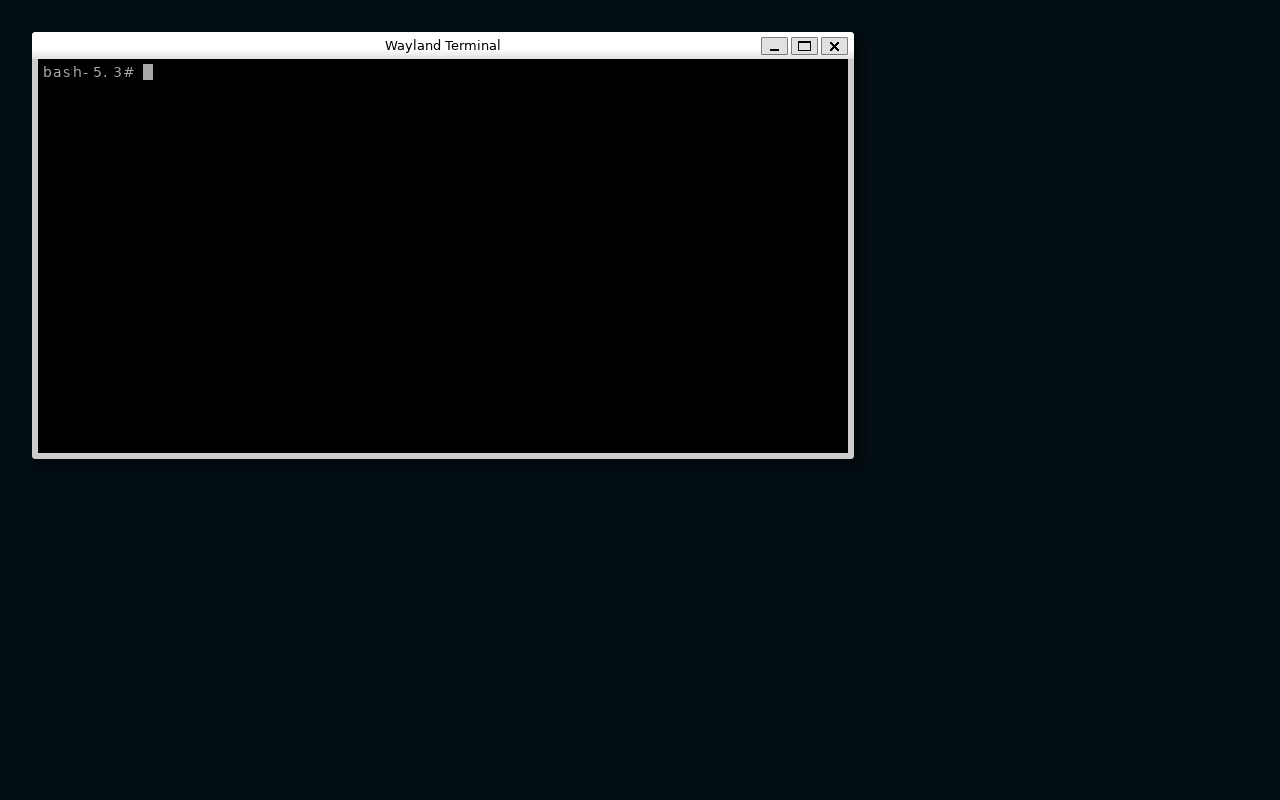
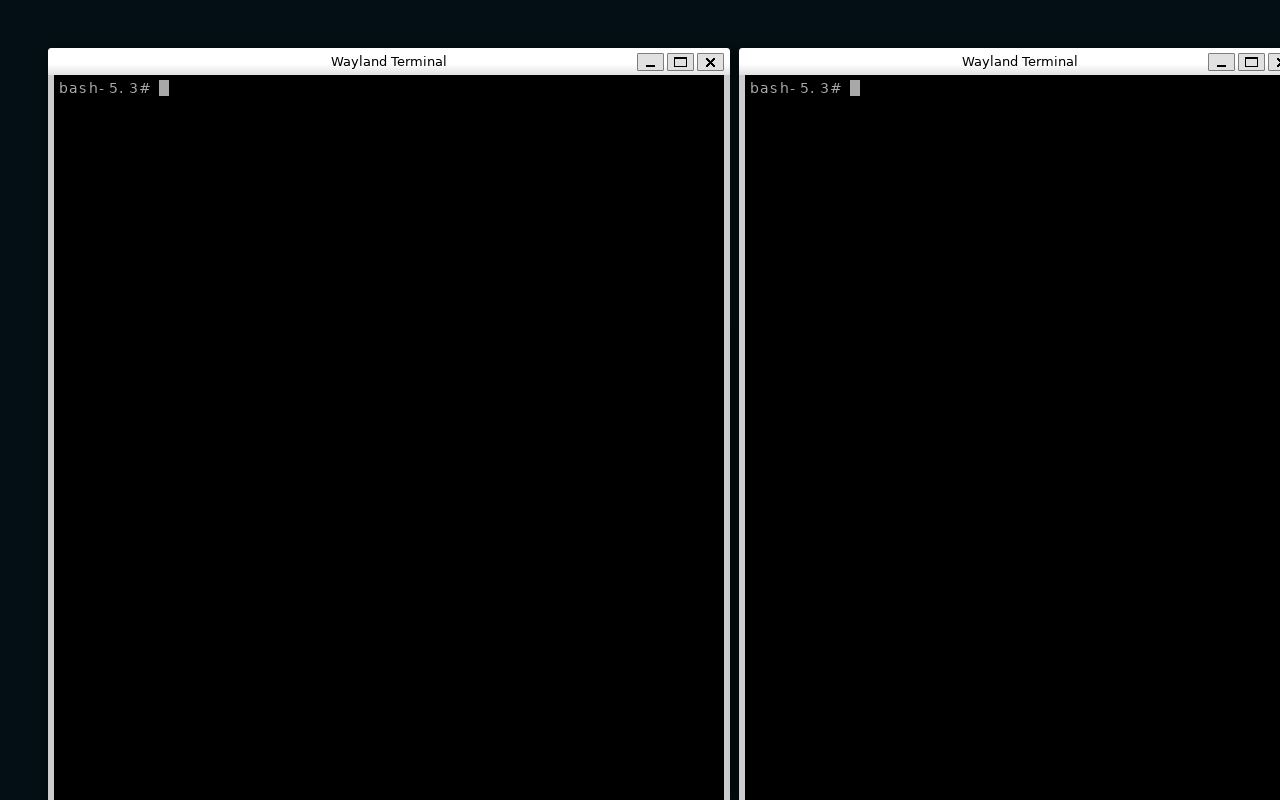
docs(smithay): tiled client integration and remaining gaps
Updates the backend page with the two-client tiled screenshot, what now
works (shell tiling/configure, keyboard/pointer focus) and what remains
(workspace UI, overlay above clients, interactive resize, udev/DRM).

Changed region(s): [[0.0, 0.0312, 1.0, 1.0]]

diff --git a/apps/web/src/sections/Roadmap.tsx b/apps/web/src/sections/Roadmap.tsx
@@ -43,8 +43,8 @@ const PHASES: Array<{
     status: "progress",
     summary: "A Smithay shell that owns the scene graph, tiling and frame pacing.",
     bullets: [
-      "Winit/EGL adapter renders real xdg-shell clients (weston-terminal verified) and FramePlan demo; Linux-only crate.",
-      "Next: integrate clients with shell tiling/workspaces, pointer input and configure sizing, then udev/DRM.",
+      "Winit/EGL adapter maps xdg-shell clients into shell tiling (two terminals verified) and keeps a FramePlan demo; Linux-only crate.",
+      "Next: workspace switch/overlay above clients, interactive move/resize, cursor/axis, then udev/DRM.",
       "wgpu/Vulkan renderer, damage tracking, one draw pass for shell chrome.",
       "Frame scheduler from os/compositor wired to a real 120 Hz deadline.",
     ],

diff --git a/apps/docs/docs/architecture/smithay-backend.md b/apps/docs/docs/architecture/smithay-backend.md
@@ -20,10 +20,10 @@ aether-shell (policy) ──> FramePlan ──> aether-shell-smithay (Linux)
                                    └── aether-preview (software, any OS)
 ```
 
-![A Wayland terminal client rendered by the Smithay backend](/img/smithay-client.png)
+![Two Wayland terminal clients tiled by the shell](/img/smithay-client.png)
 
-*A real `weston-terminal` xdg-shell client with a shared-memory buffer, rendered
-by `aether-shell-smithay` under Xvfb.*
+*Two real `weston-terminal` xdg-shell clients with shared-memory buffers, tiled by
+`aether-shell` and rendered by `aether-shell-smithay` under Xvfb.*
 
 ![The `--demo` FramePlan view](/img/smithay-window.png)
 
@@ -35,11 +35,13 @@ by `aether-shell-smithay` under Xvfb.*
 - Opens a native window with Smithay's winit/EGL backend.
 - Accepts Wayland clients over a listening socket (`aether-0`): xdg-shell,
   shared-memory buffers, compositor and seat.
-- Renders client surfaces with Smithay surface elements; a real `weston-terminal`
-  is shown in the screenshot above.
-- Forwards keyboard input to the focused surface (focus follows a new toplevel and
-  pointer motion when nothing is focused).
-- Sends frame callbacks, handles client connect/disconnect and window close.
+- Maps each toplevel into `aether-shell` as a window, so clients are **tiled by
+  the shell layout** and configured to their tile size. Two terminals are shown
+  side-by-side in the screenshot.
+- Renders client surfaces with Smithay surface elements at their shell rects.
+- Pointer motion focuses the window under the cursor and forwards motion/buttons;
+  keyboard input goes to the focused surface.
+- Sends frame callbacks, handles client connect/disconnect/destroy and window close.
 - `--demo` mode presents the shell `FramePlan` as solid surfaces (z-order and
   overlay) for visual verification without clients.
 - Runs under Xvfb with Mesa software EGL for headless verification.
@@ -47,11 +49,12 @@ by `aether-shell-smithay` under Xvfb.*
 
 ## What is not implemented
 
-- **Shell policy for clients.** Clients are painted at `(0,0)`, not integrated
-  with `aether-shell` tiling/workspaces yet.
-- **Pointer input.** Motion focuses the first toplevel; pointer motion/buttons are
-  not forwarded, and there is no hit-testing or cursor theming.
-- **xdg configure/sizing.** Toplevels are activated but not sized by the shell.
+- **Workspaces have no UI/shortcuts yet.** Clients join the active workspace and
+  tile, but there is no keybinding/overlay to switch workspaces.
+- **No shell overlay in client mode.** The palette/chat overlay is only drawn in
+  `--demo`; integrating it above clients is next.
+- **Cursor theming and axis** are not handled; pointer motion/buttons are basic.
+- **Interactive move/resize, popups and drag-and-drop** are ignored.
 - **Popups, drag-and-drop and grabs** are accepted/ignored at the protocol level.
 - **udev/DRM backend.** The target path for the 7700K (no X server) is not written;
   winit is the development adapter.

diff --git a/CHANGELOG.md b/CHANGELOG.md
@@ -10,9 +10,11 @@ semantic versioning with release codenames (0.1 = “Kestrel”).
 
 - **First native backend** — `aether-shell-smithay` (Linux-only, standalone
   Cargo crate) opens a Smithay/winit window. It now accepts xdg-shell/shm
-  clients (verified with a real `weston-terminal`), forwards keyboard input to
-  the focused surface and keeps a `--demo` mode for the solid `FramePlan` view.
-  Shell tiling integration, pointer input, configure/sizing and udev/DRM remain.
+  clients (verified with two real `weston-terminal` instances), maps them into
+  `aether-shell` windows so they tile and are configured to their rects, and
+  forwards keyboard/pointer focus and buttons. A `--demo` mode keeps the solid
+  `FramePlan` view. Workspace UI, overlay above clients, interactive resize,
+  cursor theming and udev/DRM remain.
   Nix dev shell `.#smithay`, demo/client smoke scripts, ADR-0012.
 - **Backend-neutral shell state** — `aether-shell` owns windows, workspaces, focus,
   floating windows, the overlay and `FramePlan`, with no Wayland/GPU dependency.

diff --git a/apps/docs/docs/roadmap/roadmap.md b/apps/docs/docs/roadmap/roadmap.md
@@ -77,9 +77,10 @@ Deliverables:
 
 - ✅ winit/EGL adapter presents `FramePlan` (solid surfaces) under Xvfb; standalone
   Linux crate so the core stays toolkit-free.
-- ✅ xdg-shell/shm clients render; keyboard focus/forwarding; `weston-terminal`
-  verified under Xvfb.
-- ⏳ Integrate clients with shell tiling/workspaces, pointer input, configure/sizing.
+- ✅ xdg-shell/shm clients map into shell windows, tile and are configured to
+  their rects; keyboard/pointer focus and basic buttons; two terminals verified.
+- ⏳ Workspace switching UI/shortcuts, shell overlay above clients, interactive
+  move/resize, cursor theme and axis.
 - ⏳ udev/DRM backend, libinput seat, wgpu renderer, output hotplug.
 - Scene graph with damage tracking; shell chrome in one draw pass.
 - Tiling layout, focus, keybindings; one workspace per output.

diff --git a/README.md b/README.md
@@ -46,7 +46,7 @@ the next phase; first boot lands in a console, not the finished desktop.
 | aarch64 development VM target | ✅ built + booted headless in ~10–12 s (HVF) | `os/vm` |
 | disko disk layout + install script | ✅ written, evaluation-checked | `os/nixos/disko.nix`, `scripts/install.sh` |
 | Compositor core + shell state + preview | ✅ 49 Rust tests | `os/compositor` |
-| Smithay winit backend (Linux-only) | ✅ builds + renders a real Wayland client under Xvfb | `os/compositor/aether-shell-smithay` |
+| Smithay winit backend (Linux-only) | ✅ tiled xdg-shell clients rendered under Xvfb | `os/compositor/aether-shell-smithay` |
 | Compositor UI (`aether-shell`) | ⏳ roadmap P2 | — |
 | WebRTC remote display | ⏳ roadmap P7 | — |
 

diff --git a/apps/docs/docs/intro.md b/apps/docs/docs/intro.md
@@ -53,7 +53,7 @@ not need. Aether removes them:
 | NixOS flake + installer ISO | ✅ evaluates; not booted in CI | `os/nixos` |
 | disko layout + install script | ✅ written, evaluation-checked | `os/nixos/disko.nix`, `scripts/install.sh` |
 | aarch64 development VM | ✅ build + booted headless (~10–12 s) | `os/vm` |
-| Smithay winit backend | ✅ Linux-only; xdg-shell client rendered under Xvfb | `os/compositor/aether-shell-smithay` |
+| Smithay winit backend | ✅ Linux-only; tiled xdg-shell clients under Xvfb | `os/compositor/aether-shell-smithay` |
 | Compositor core + shell state + preview | ✅ 49 Rust tests | `os/compositor` |
 | Compositor UI (`aether-shell`) | ⏳ P2 | — |
 | Remote display | ⏳ P7 | — |

diff --git a/os/compositor/README.md b/os/compositor/README.md
@@ -102,7 +102,7 @@ backend.
 | Phase | Work |
 | --- | --- |
 | P0 (done) | Pure crates, shell state, preview, tests, demo, facade |
-| P2 (started) | `aether-shell-smithay`: xdg-shell/shm clients render, keyboard focus; shell tiling integration, pointer input and udev/DRM next |
+| P2 (started) | `aether-shell-smithay`: xdg-shell clients tile/configure via `aether-shell`, keyboard/pointer focus; workspace/overlay and udev/DRM next |
 | P2 | Text/atlas and scene-graph UI primitives |
 | P3 | Shell layers (palette/chat) consume the same crates |
 
